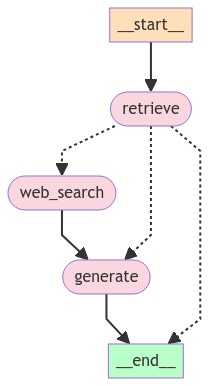
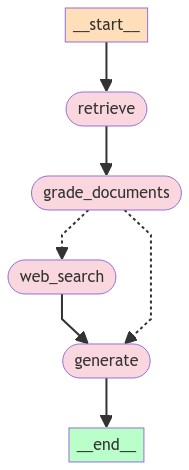
restructure graph

diff --git a/app/graph/graph.py b/app/graph/graph.py
@@ -1,41 +1,42 @@
 from dotenv import load_dotenv, find_dotenv
-
 from langgraph.graph import END, StateGraph
+
+from app.graph.consts import RETRIEVE, GRADE_DOCUMENTS, GENERATE, WEB_SEARCH
+from app.graph.nodes import retrieve, grade_documents, generate, web_search
 from app.graph.state import GraphState
-from app.graph.nodes.generate import generate
-from app.graph.nodes.web_search import web_search
-from app.graph.nodes.retrieve import retrieve
-from app.graph.nodes.grade_documents import grade_documents
 
 _ = load_dotenv(find_dotenv())
 
-RETRIEVE = "retrieve"
-GRADE_DOCUMENTS = "grade_documents"
-WEB_SEARCH = "web_search"
-GENERATE = "generate"
 
-
-def should_continue(state: GraphState) -> str:
-    grade = grade_documents(state)
-    if grade["is_web_search_needed"]:
+def decide_to_generate(state) -> str:
+    print("Assessing if we need a web search or we should generate the answer.")
+    if state["is_web_search_needed"]:
+        print(
+            "----DECISION: NOT ALL DOCUMENT ARE RELEVANT TO THE QUESTION, PERFORMING WEB SEARCH"
+        )
         return WEB_SEARCH
     else:
+        print("----DECISION: ALL DOCUMENTS ARE RELEVANT TO THE QUESTION")
         return GENERATE
 
 
-flow = StateGraph(GraphState)
-flow.add_node(RETRIEVE, retrieve)
-flow.add_node(WEB_SEARCH, web_search)
-flow.add_node(GENERATE, generate)
-flow.set_entry_point(RETRIEVE)
-flow.add_conditional_edges(RETRIEVE, should_continue)
-flow.add_edge(WEB_SEARCH, GENERATE)
-flow.add_edge(GENERATE, END)
+workflow = StateGraph(GraphState)
 
-c_rag_app = flow.compile()
+workflow.add_node(RETRIEVE, retrieve)
+workflow.add_node(GRADE_DOCUMENTS, grade_documents)
+workflow.add_node(GENERATE, generate)
+workflow.add_node(WEB_SEARCH, web_search)
+
+workflow.set_entry_point(RETRIEVE)
+
+workflow.add_edge(RETRIEVE, GRADE_DOCUMENTS)
+workflow.add_conditional_edges(
+    GRADE_DOCUMENTS,
+    decide_to_generate,
+    path_map={WEB_SEARCH: WEB_SEARCH, GENERATE: GENERATE},
+)
+workflow.add_edge(WEB_SEARCH, GENERATE)
+workflow.add_edge(GENERATE, END)
+
+c_rag_app = workflow.compile()
 c_rag_app.get_graph().draw_mermaid_png(output_file_path="graph.png")
-
-if __name__ == "__main__":
-    print("Hello C_RAG with LangGraph")
-    res = c_rag_app.invoke(input={"question": "Agent Memory"})
-    print(res)

diff --git a/app/main.py b/app/main.py
@@ -1,6 +1,9 @@
 from dotenv import load_dotenv, find_dotenv
+from app.graph.graph import c_rag_app
 
 _ = load_dotenv(find_dotenv())
 
 if __name__ == "__main__":
-    print("Hello CRAG")
+    print("Hello C_RAG with LangGraph")
+    res = c_rag_app.invoke(input={"question": "What is Agent Memory?"})
+    print(res)

diff --git a/app/graph/state.py b/app/graph/state.py
@@ -11,6 +11,6 @@ class GraphState(TypedDict):
         documents: list of strings"""
 
     question: str
-    generation: Optional[str]
-    is_web_search_needed: Optional[bool]
-    documents: Optional[List[str]]
+    generation: str
+    is_web_search_needed: bool
+    documents: List[str]

diff --git a/app/graph/nodes/__init__.py b/app/graph/nodes/__init__.py
@@ -1,0 +1,6 @@
+from app.graph.nodes.generate import generate
+from app.graph.nodes.grade_documents import grade_documents
+from app.graph.nodes.retrieve import retrieve
+from app.graph.nodes.web_search import web_search
+
+__all__ = ["generate", "grade_documents", "retrieve", "web_search"]

diff --git a/app/graph/consts.py b/app/graph/consts.py
@@ -1,0 +1,4 @@
+RETRIEVE = "retrieve"
+GRADE_DOCUMENTS = "grade_documents"
+GENERATE = "generate"
+WEB_SEARCH = "web_search"
